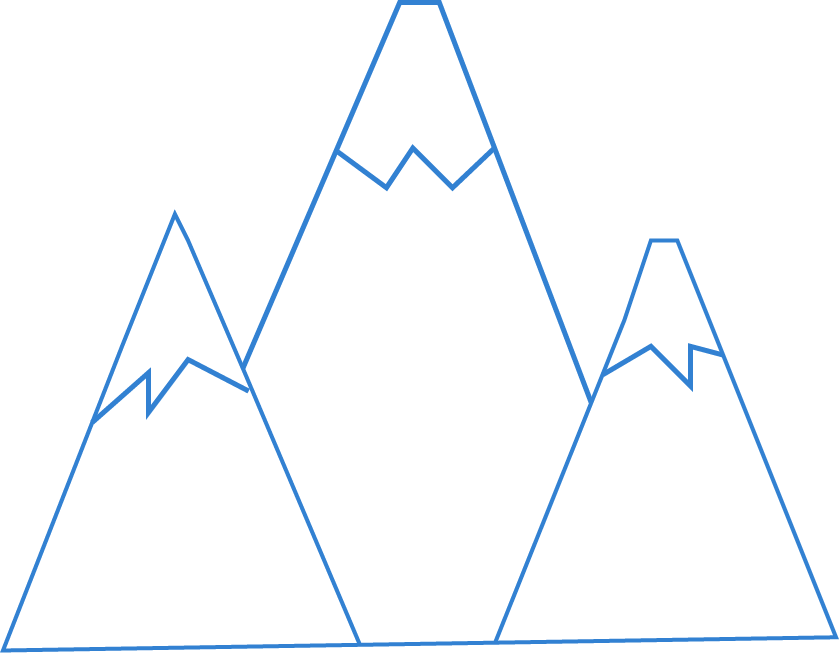
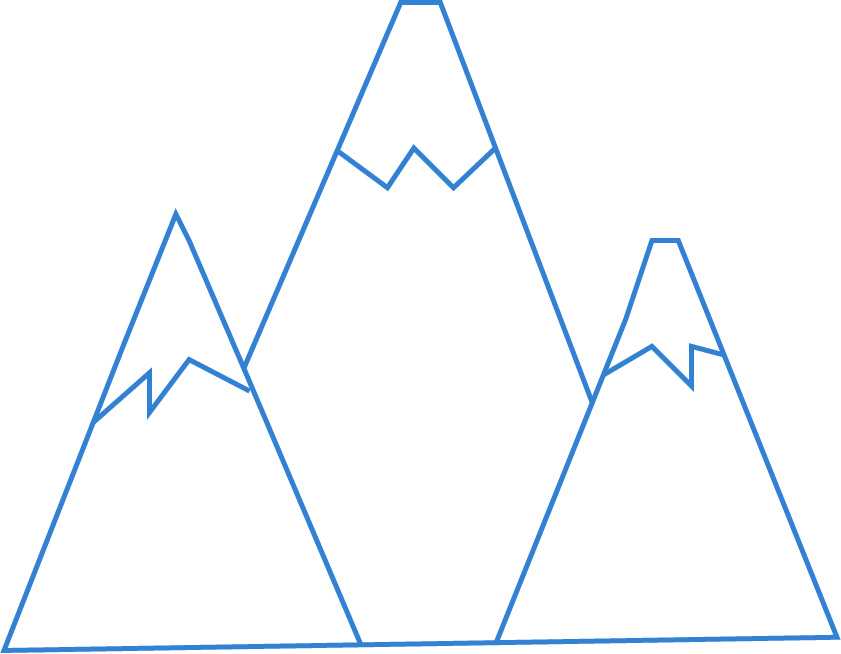
main

diff --git a/style.css b/style.css
@@ -80,8 +80,8 @@ font-family: 'Press Start 2P', cursive;
 }
 #mountain_container{
 		    text-align: center;
-padding-top:10vh;
-height:40vh !important;
+padding-top:5vh;
+height:45vh !important;
 }
 #pathBox{
 	padding-top: 35%;
@@ -115,10 +115,10 @@ height:40vh !important;
 	float:left;
 }
 #gory{
-  width:350px;
+  width:400px;
 }
 #gory:hover {
-  animation: shake 0.82s cubic-bezier(.36,.07,.19,.97) both;
+	animation: shake 0.82s cubic-bezier(.36,.07,.19,.97) infinite;
   transform: translate3d(0, 0, 0);
   backface-visibility: hidden;
   perspective: 1000px;

diff --git a/index.html b/index.html
@@ -20,7 +20,7 @@
     </div>
     <div id="containers_box">
       <div id="mountain_container" class="container">
-        <img id="gory"  src="gory.png" onclick="iconAction(1)">
+        <img id="gory"  src="mountains.png" onclick="iconAction(1)">
       </div>
       <div id="design_container" class="container">
         <img class="image"  src="bauhaus.jpg" onclick="iconAction(1)">
